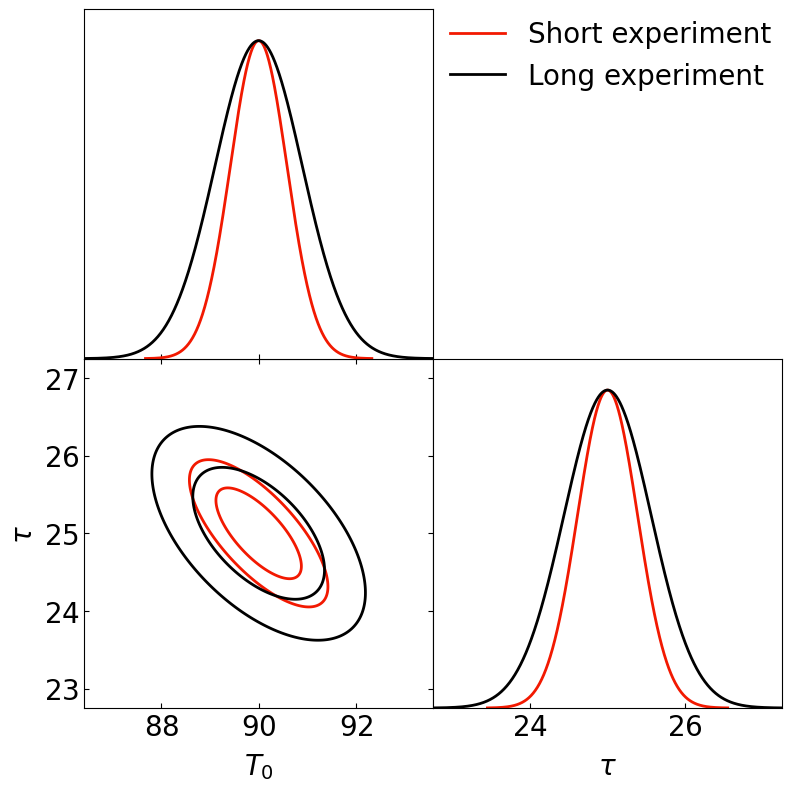
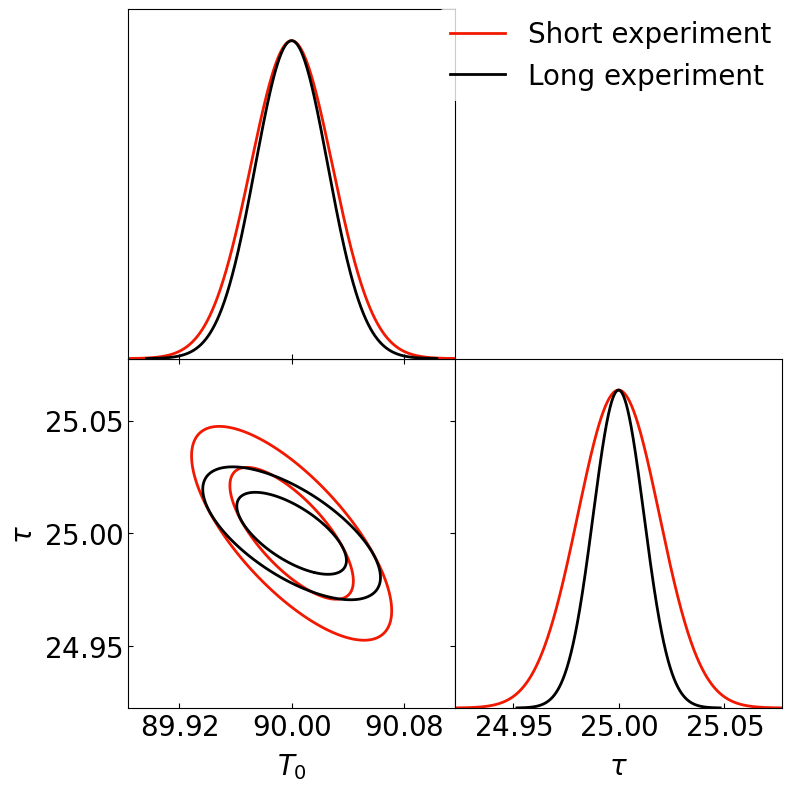
improved readme; updated surname in license; updated simple fisher plot

diff --git a/src/percolator_fish/scripts/plot_simple_forecast.py b/src/percolator_fish/scripts/plot_simple_forecast.py
@@ -48,16 +48,27 @@ def main() -> None:
     data = make_coffee_data()
     theta0 = data["theta0"]
 
+    short_time = np.linspace(0.0, 40.0, 20)
+
+    long_time = np.unique(
+        np.concatenate(
+            [
+                short_time,
+                np.linspace(40.0, 120.0, 80),
+            ]
+        )
+    )
+
     experiments = [
         CoffeeExperiment(
             label="Short experiment",
-            time_min=np.linspace(0.0, 40.0, 20),
-            sigma_temperature=1.0,
+            time_min=short_time,
+            sigma_temperature=0.05,
         ),
         CoffeeExperiment(
             label="Long experiment",
-            time_min=np.linspace(0.0, 1000.0, 100),
-            sigma_temperature=1.0,
+            time_min=long_time,
+            sigma_temperature=0.05,
         ),
     ]
 

diff --git a/README.md b/README.md
@@ -79,6 +79,28 @@ while keeping the room temperature fixed.
 
 Later we introduce additional nuisance parameters to illustrate larger Fisher forecasts and triangle plots.
 
+### Advanced model
+
+The simplest model forecasts only the initial coffee temperature and cooling time,
+
+$$
+\theta = (T_0, \tau).
+$$
+
+To make the example closer to a realistic Fisher forecast, the full demo also includes an advanced model with more parameters.
+
+In this model, the temperature is still based on exponential cooling, but we allow additional parameters to vary. This creates a larger parameter vector and therefore a larger Fisher matrix.
+
+The purpose of the advanced model is not to make coffee cooling more realistic. Instead, it demonstrates what happens when a forecast includes several parameters at once:
+
+* some parameters are tightly constrained,
+* some parameters are weakly constrained,
+* some parameters are correlated with each other,
+* some combinations of parameters are degenerate.
+
+This is why the advanced model is useful for showing a triangle plot. The triangle plot summarizes all one dimensional and two dimensional marginalized constraints from the full Fisher covariance matrix.
+
+
 ---
 
 ## Synthetic observations
@@ -198,14 +220,16 @@ The sign of $\rho$ tells us the direction of the degeneracy:
 
 Computing the Fisher matrix requires derivatives of the model with respect to every parameter.
 
-Derivatives describe how the predicted data change when a parameter is changed.
-In the coffee example, they tell us how the cooling curve responds if we slightly change the initial temperature, the cooling time, or any other model parameter.
+In general, derivatives describe how one quantity changes when another quantity is changed.
+In a Fisher forecast, they describe how the predicted data change when each model parameter is varied.
 
-This is what makes derivatives useful for forecasting.
-If changing a parameter produces a large change in the predicted data, that parameter can usually be constrained well.
-If changing a parameter produces only a small change, or produces a change that looks very similar to another parameter, then the parameter will be harder to constrain or more strongly degenerate.
+In the coffee example, the derivatives tell us how the cooling curve responds if we slightly change the 
+initial temperature, the cooling time, or any other model parameter. If changing a parameter produces a
+large change in the predicted temperatures, then that parameter is easier to constrain.
+If changing a parameter produces only a small change, or produces a change that looks similar to the effect
+of another parameter, then that parameter is harder to constrain or becomes degenerate with the other parameter.
 
-For this small toy model the derivatives could be derived analytically.
+For this small toy model, the derivatives could be derived analytically.
 
 However, realistic scientific models often involve
 
@@ -215,9 +239,12 @@ However, realistic scientific models often involve
 * external software,
 * many parameters.
 
-In these situations computing derivatives accurately and efficiently becomes one of the main challenges.
+In these situations, computing derivatives accurately and efficiently becomes one of the main challenges.
 
-This is exactly the problem solved by **DerivKit**.
+This is exactly the kind of problem that **DerivKit** is designed to handle.
+DerivKit takes care of the numerical derivative calculation and Fisher matrix construction. 
+The user only needs to provide a model that maps parameters to observables, together with a data 
+covariance matrix. DerivKit then turns those ingredients into a Fisher forecast.
 
 ---
 
@@ -254,28 +281,47 @@ or any scientific model that predicts observables from parameters.
 
 ## Running the demo
 
-Install
+Install the package in editable mode:
 
 ```bash
 pip install -e .
 ```
 
-Generate synthetic observations
+Generate synthetic coffee cooling observations:
 
 ```bash
 percolator-data
 ```
 
-Create the two-parameter Fisher forecast
+This creates
+
+```text
+data_output/coffee_data.npz
+plots_output/coffee_data.png
+```
+
+Create the simple Fisher forecast:
 
 ```bash
 percolator-simple
 ```
 
-Create the larger Fisher triangle plot
+This creates
+
+```text
+plots_output/coffee_simple_forecast.png
+```
+
+Create the full Fisher triangle plot:
 
 ```bash
 percolator-full
+```
+
+This creates
+
+```text
+plots_output/coffee_full_forecast.png
 ```
 
 ---
@@ -284,48 +330,108 @@ percolator-full
 
 ### Cooling curve
 
-The first figure shows
+The first plot shows the synthetic coffee cooling data compared to the theoretical curve.
 
-* noisy synthetic temperature measurements,
-* the fiducial cooling model.
+<p align="center">
+  <img src="plots_output/coffee_data.png" alt="Synthetic coffee cooling data" width="400">
+</p>
 
-This represents the mock experiment.
+The points represent noisy mock temperature measurements.
+The smooth curve shows the fiducial cooling model used to generate the data.
+
+This plot shows the mock experiment before any Fisher calculation is done.
+The Fisher forecast does not fit these noisy points directly. Instead, it uses the assumed model,
+fiducial parameters, noise level, and model derivatives to estimate *how well the parameters could
+be constrained*.
+
+Note that we use two cooling models in this repository. 
+The first is the simple Newton cooling model presented above, where the forecast varies the 
+initial coffee temperature and the cooling time, while the room temperature is held fixed.
+The second is a more advanced model that also depends on the initial coffee temperature, 
+but varies additional parameters at the same time: the room temperature, the cooling time, 
+and a dimensionless cup factor. The cup factor rescales the effective cooling time, so values
+larger than one mimic a more insulating cup, while values smaller than one mimic a cup that 
+lets the coffee cool faster. The advanced model also includes small extra temperature terms 
+that make the parameter effects overlap more strongly. This is useful for the demo because it
+creates visible correlations and degeneracies in the Fisher forecast, making the full triangle
+plot more informative.
 
 ---
 
-### Two-parameter forecast
+### Simple Fisher forecast
 
-The second figure shows forecasted confidence ellipses for
+The second plot shows the Fisher forecast for the simple two parameter cooling model.
 
-* initial temperature,
-* cooling time.
+<p align="center">
+  <img src="plots_output/coffee_simple_forecast.png" alt="Simple two parameter Fisher forecast" width="400">
+</p>
 
-The ellipse illustrates
+In this case, the model varies only two parameters,
 
-* forecasted parameter uncertainties,
-* forecasted parameter correlations.
+$$
+\theta = (T_0, \tau),
+$$
 
-A narrow ellipse corresponds to well-constrained parameters.
+where $T_0$ is the initial coffee temperature and $\tau$ is the cooling time.
 
-A tilted ellipse indicates that increasing one parameter can be partially compensated by changing another.
+The plot compares two different mock observing setups:
 
-The ellipse should be interpreted as the expected local constraint near the fiducial model, not as a direct fit to the particular noisy realization.
+* **Short experiment**, shown in red,
+* **Long experiment**, shown in black.
+
+Both forecasts use the same underlying cooling model and the same temperature uncertainty per
+measurement, but they use different time ranges and numbers of measurements. The short experiment
+observes the coffee over a shorter time interval, while the long experiment observes it for longer
+and collects more data points.
+
+The contours show the expected joint constraints on the initial coffee temperature and the cooling time.
+The width of each contour shows the forecasted uncertainty. The tilt of each contour shows the parameter
+correlation.
+
+A tilted contour means that changing one parameter can be partly compensated by changing the other.
+For example, a hotter initial coffee temperature and a different cooling time can produce similar 
+temperatures over the observed time range.
+
+This is directly analogous to survey forecasts in astronomy. When people compare something like 
+a Year 1 and Year 10 survey forecast, they are asking how the parameter constraints improve as 
+the survey gets more observing time, more data, and better statistics. Here, the long coffee 
+experiment plays the role of the deeper or longer survey: it has more information, so the Fisher
+forecast predicts tighter parameter constraints.
+
+This is the basic idea of a Fisher forecast: it predicts the expected local uncertainty around
+the fiducial model for a specified experimental setup.
+
 
 ---
 
-### Triangle plot
+<details>
+<summary><strong>Advanced model and full triangle plot</strong></summary>
 
-The final figure extends the model to additional parameters.
+The full forecast uses a larger parameter vector.
 
-Each diagonal panel shows the marginalized forecast for one parameter.
+This is meant to mimic the structure of more realistic scientific forecasts, 
+where the model often contains both main physical parameters and additional nuisance parameters.
 
-Each off-diagonal panel shows the joint forecast for a pair of parameters.
+<p align="center">
+  <img src="plots_output/coffee_full_forecast.png" alt="Full Fisher triangle plot" width="400">
+</p>
 
-Circular contours indicate nearly independent parameters.
+The diagonal panels show the marginalized forecast for each individual parameter.
 
-Tilted ellipses indicate correlated parameters.
+The off diagonal panels show the joint forecast for each pair of parameters.
 
-Long thin ellipses indicate strong parameter degeneracies.
+The shape of each contour tells us how the two parameters interact:
+
+* nearly circular contours indicate weak correlation,
+* tilted contours indicate correlated parameters,
+* long narrow contours indicate strong degeneracy.
+
+This plot is useful because it shows the full covariance structure of the forecast. 
+Instead of looking at one parameter pair, the triangle plot lets us see all pairwise
+degeneracies in the model at once.
+
+</details>
+
 
 ---
 
@@ -355,34 +461,42 @@ Confidence contours
 Scientific interpretation
 ```
 
-The exact same workflow is used in many areas of modern computational science, where DerivKit automates the derivative calculations that make Fisher forecasting possible.
+The **exact same principle** is used in many areas of modern computational science,
+where DerivKit automates the derivative calculations that make Fisher forecasting possible. 
+The user only needs to supply a model that maps parameters to observables, along with a 
+corresponding data covariance matrix. DerivKit then handles the numerical derivatives and
+Fisher matrix construction, making it easier to move from a scientific model to forecasted
+parameter constraints.
 
 ---
 
 ## Repository structure
 
 ```text
-src/
-    model.py
-        Coffee cooling models.
-
-    data.py
-        Synthetic data generation.
-
-    fisher.py
-        DerivKit Fisher utilities.
-
-scripts/
-    plot_coffee_data.py
-        Generates noisy observations nad makes a plot.
-
-    plot_two_param_forecast.py
-        Produces a two-parameter Fisher forecast and plots it.
-
-    plot_triangle_forecast.py
-        Produces a forecast for the advanced model and plots th contours for all the model parameters.
+.
+├── README.md
+├── LICENSE
+├── pyproject.toml
+├── _static/
+│   ├── pete_gif.gif
+│   └── petemartell.jpeg
+├── data_output/
+│   └── coffee_data.npz
+├── plots_output/
+│   ├── coffee_data.png
+│   ├── coffee_simple_forecast.png
+│   └── coffee_full_forecast.png
+└── src/
+    └── percolator_fish/
+        ├── __init__.py
+        ├── data.py
+        ├── fisher.py
+        ├── model.py
+        └── scripts/
+            ├── plot_coffee_data.py
+            ├── plot_simple_forecast.py
+            └── plot_full_forecast.py
 ```
-
 ---
 
 ## License and media credit